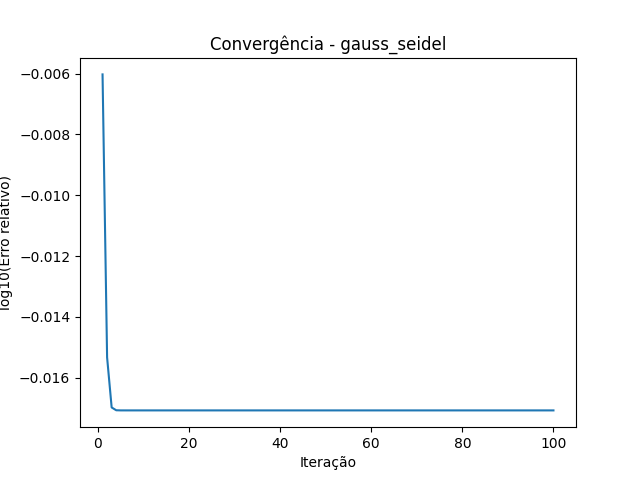
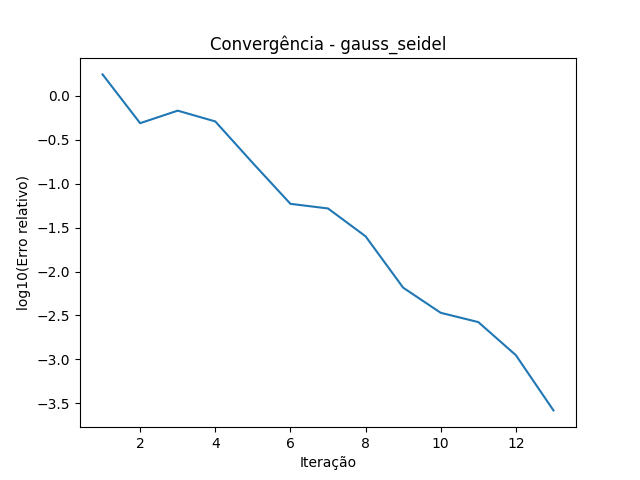
Trata corretamente mensagens de erro.

diff --git a/testes.py b/testes.py
@@ -5,7 +5,7 @@ import matplotlib.pyplot as plt
 
 from Dependencias.results import Results
 from Dependencias.utilidades import erro_solucao
-from matriz import SistemaLinear
+from sistema_linear import SistemaLinear
 
 class TestesUmaMatriz:
     'Objetivo: executar todos os métodos em uma única matriz A e um único vetor B, e escrever os resultados em arquivos'
@@ -69,9 +69,13 @@ class TestesUmaMatriz:
         s = self.sistema()
 
         inicio = time.time()
-        getattr(s, metodo)(self.t, self.o) # Chamando o método
+        res = getattr(s, metodo)(self.t, self.o) # Chamando o método
         final = time.time()
 
+        if res != None:
+            r.write(res)
+            r.skipline()
+            
         x = s.x
         logs = s.logs
 

diff --git a/sistema_linear.py b/sistema_linear.py
@@ -156,7 +156,7 @@ class SistemaLinear:
         if R <= t:
             return
     
-        self.jacobi(t, o, n)
+        return self.jacobi(t, o, n) # Vai retornar None ou a mensagem de erro
     
     def gauss_seidel(self, t: float, o: float, n: int = 0):
         'Altera x, resolvendo o sistema pelo método de Gauss-Seidel.'
@@ -183,7 +183,7 @@ class SistemaLinear:
         if R <= t:
             return
         
-        self.gauss_seidel(t, o, n)
+        return self.gauss_seidel(t, o, n) # Vai retornar None ou a mensagem de erro
     
     def gauss_seidel_scipy(self, t, o, n: int = 0):
         'Altera x, resolvendo o sistema pelo método de Gauss-Seidel usando a biblioteca scipy.'

diff --git a/main.py b/main.py
@@ -1,12 +1,11 @@
 import numpy as np
 
 from testes import TestesUmaMatriz
-from matriz import SistemaLinear
 
 n = 3
 x_inicial = [1]*n
 t = 0.001
-o = 100
+o = 50
 
 t = TestesUmaMatriz(
     np.random.rand(n, n).tolist(),
